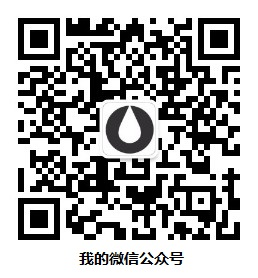
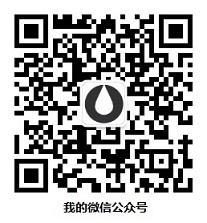
adjust

diff --git a/about.md b/about.md
@@ -7,8 +7,7 @@ title: 关于我
 <p>
 平时喜欢整理个人博客，逛逛技术论坛。了解一些 前端 基本概念和 Python 的简单用法。
 <p>
-<img src="/images/qrcode.jpg" width = "140" height = "151"/>
-
+![](/images/qrcode.jpg)
 
 <!-- {% include comments.html %} -->
 
